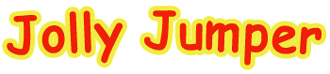
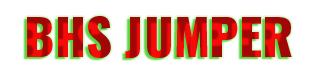
v2

diff --git a/index.html b/index.html
@@ -2,7 +2,7 @@
 <html lang="en"> 
 <head> 
 	<meta charset="UTF-8" />
-	<title>Jolly Jumper</title>    
+	<title>BHS Jumper</title>    
 	<script type="text/javascript" src="lib/phaser.js"></script>
     <script type="text/javascript" src="lib/phaser-debug.js"></script>
     <script type="text/javascript" src="lib/ScreenShake.js"></script>
